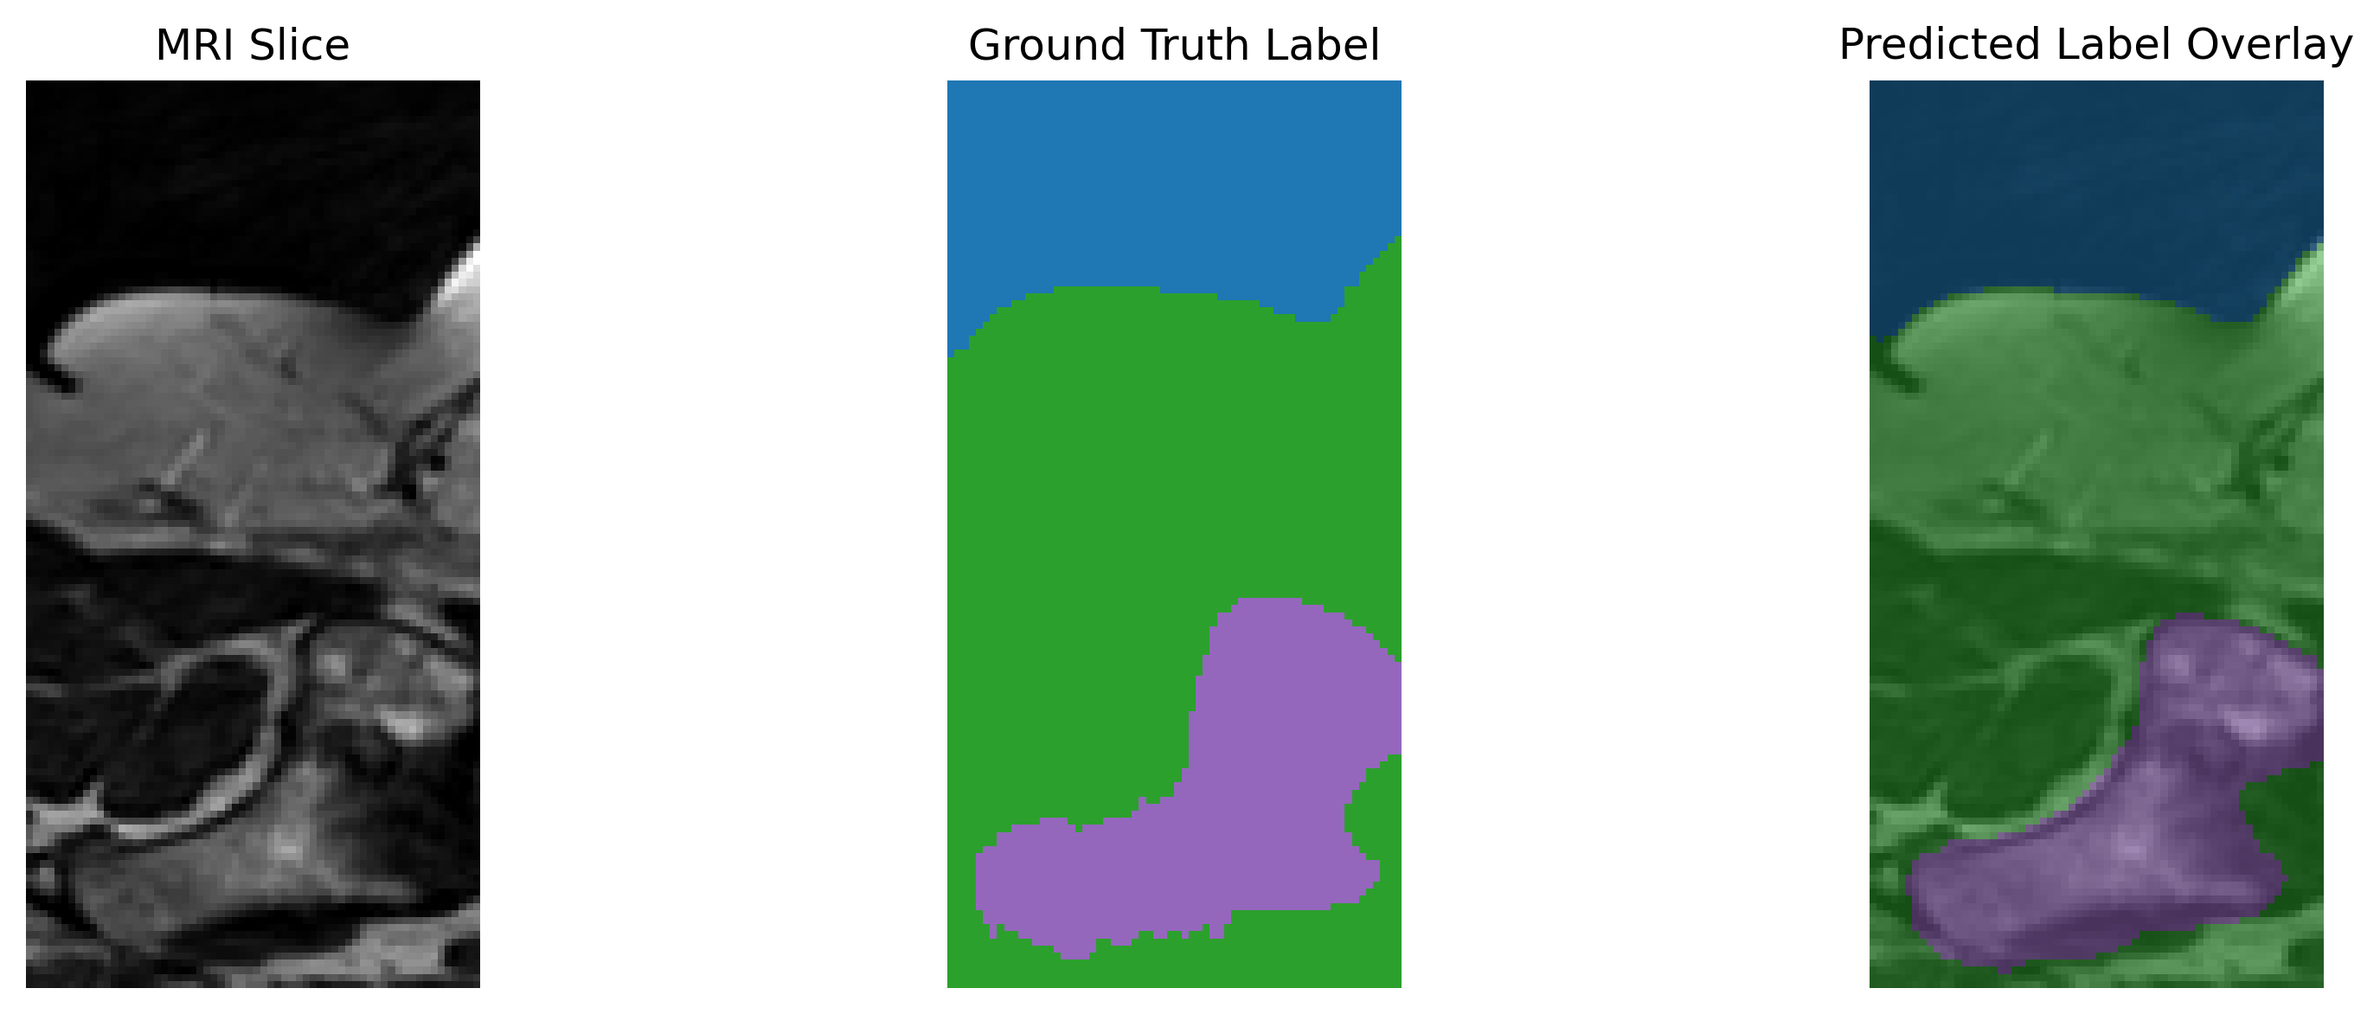
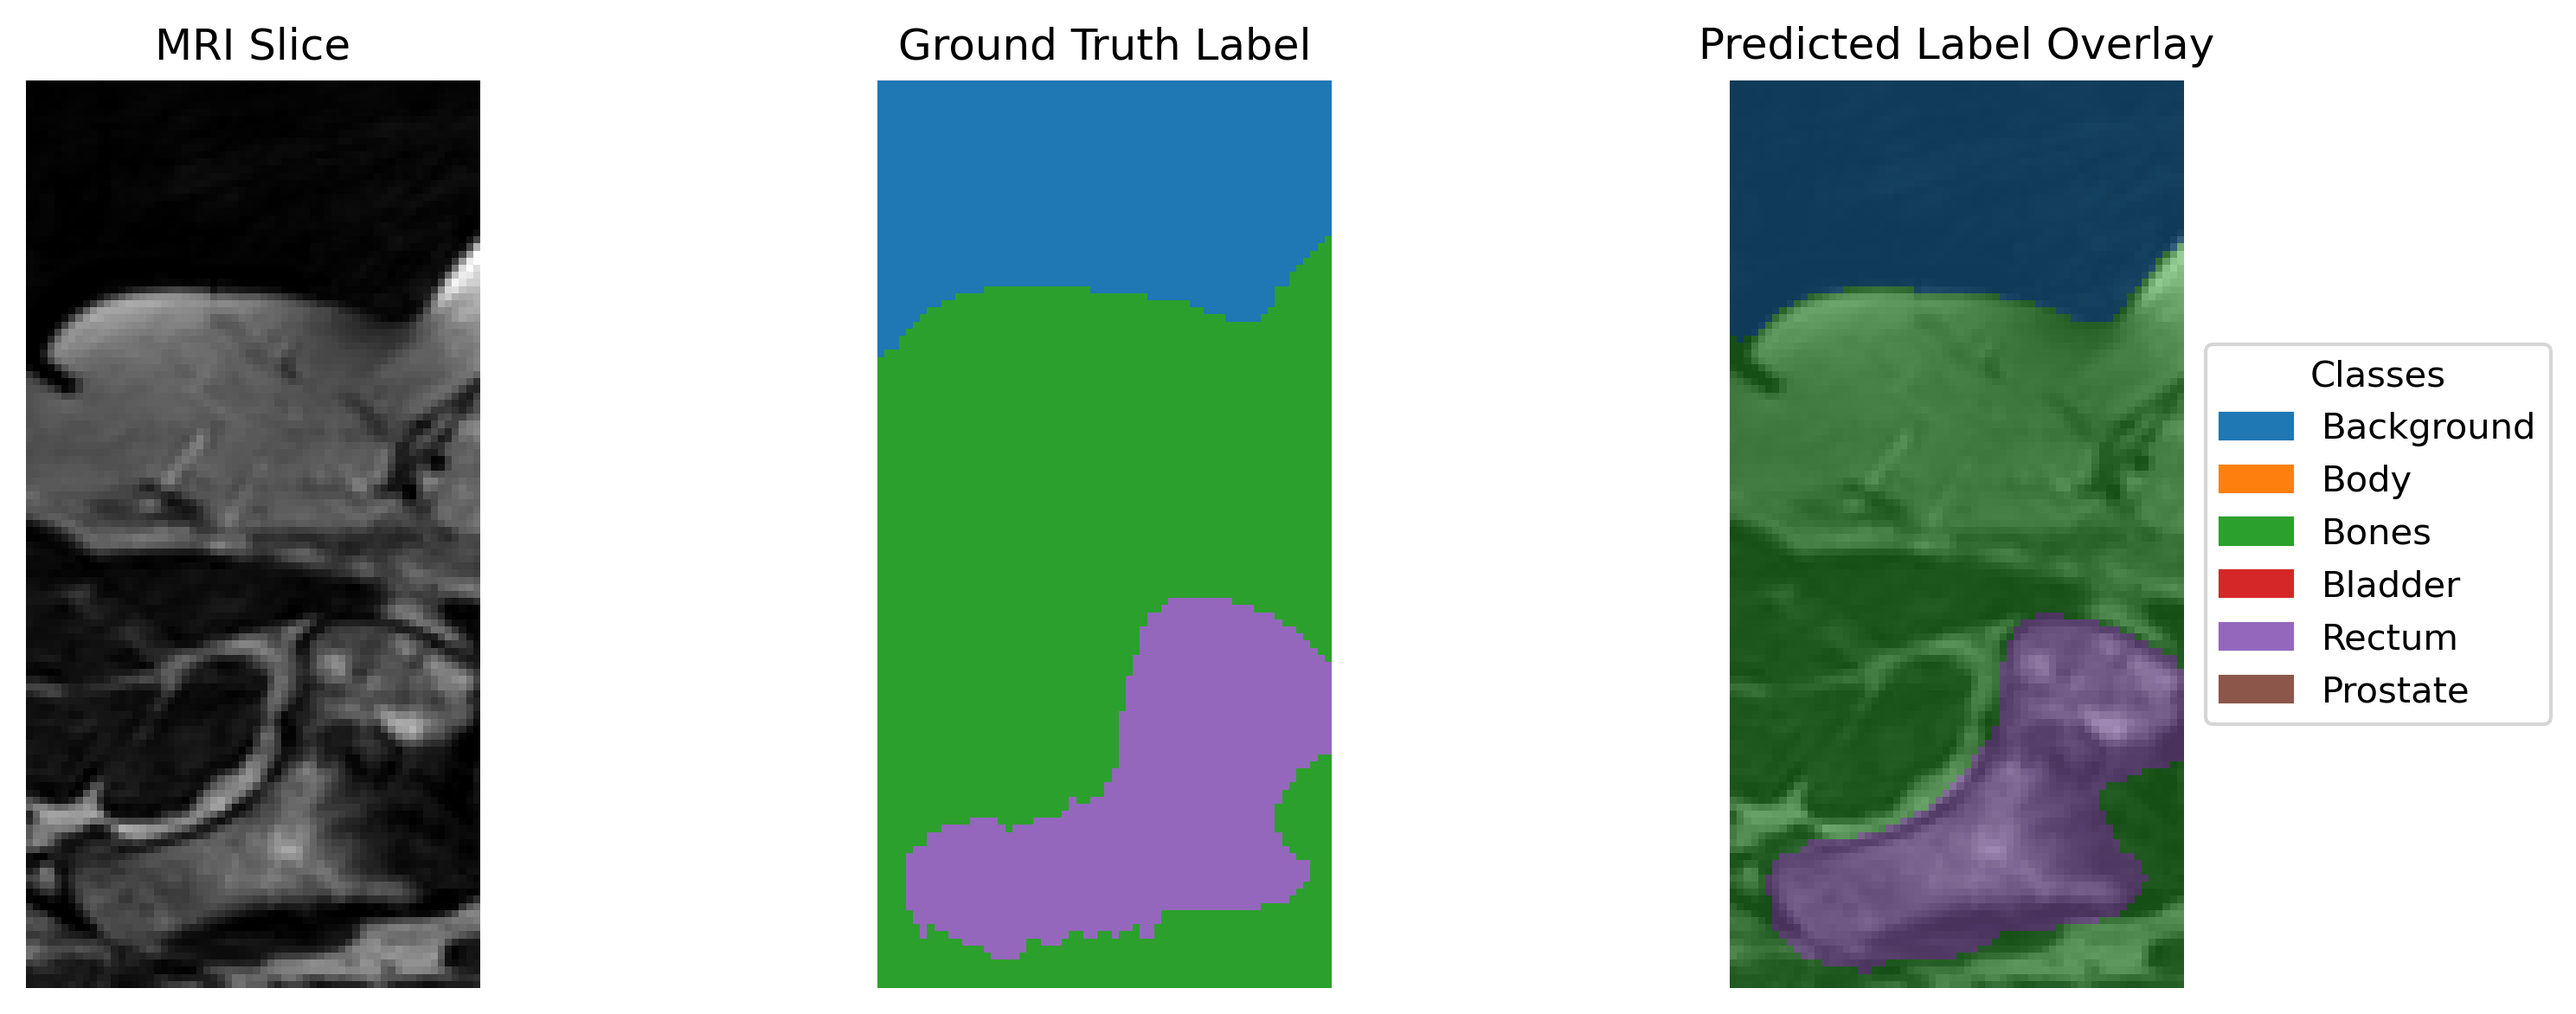
modified:   recognition/prostate_UNet3D_Qilin_He_48018155/Figures/pred_vs_gt_overlay.png 	modified:   recognition/prostate_UNet3D_Qilin_He_48018155/README.md 	modified:   recognition/prostate_UNet3D_Qilin_He_48018155/predict.py

diff --git a/recognition/prostate_UNet3D_Qilin_He_48018155/predict.py b/recognition/prostate_UNet3D_Qilin_He_48018155/predict.py
@@ -7,6 +7,7 @@ import glob
 import torchio as tio
 import os
 import matplotlib.pyplot as plt
+import matplotlib.patches as mpatches
 import numpy as np
 
 def dice_per_class(pred, target, num_classes=6, eps=1e-6):
@@ -128,8 +129,6 @@ plt.show()
 """
 
 # --- Plot for Overlay Prediction vs Ground Truth ---
-"""
-# Choose one test example
 example_idx = 0
 mri, label = test_set[example_idx]
 mri = mri.unsqueeze(0).to(device)  # [1, 1, D, H, W]
@@ -142,28 +141,49 @@ with torch.no_grad():
     gt_label = torch.argmax(label, dim=1).cpu().squeeze(0)  # [D, H, W]
     mri = mri.cpu().squeeze().numpy()
 
-# Pick a central slice (middle along depth axis)
+# Pick a central slice
 slice_idx = pred_label.shape[0] // 2
 
 plt.figure(figsize=(12, 4))
+
+# MRI Slice
 plt.subplot(1, 3, 1)
 plt.imshow(mri[slice_idx], cmap='gray')
 plt.title("MRI Slice")
 plt.axis('off')
 
+# Ground Truth Label
 plt.subplot(1, 3, 2)
 plt.imshow(gt_label[slice_idx], cmap='tab10', vmin=0, vmax=5)
 plt.title("Ground Truth Label")
 plt.axis('off')
 
+# Predicted Overlay
 plt.subplot(1, 3, 3)
 plt.imshow(mri[slice_idx], cmap='gray')
 plt.imshow(pred_label[slice_idx], alpha=0.5, cmap='tab10', vmin=0, vmax=5)
 plt.title("Predicted Label Overlay")
 plt.axis('off')
 
+# --- Add legend ---
+# Class names (adjust if your labels differ)
+class_labels = ["Background", "Body", "Bones", "Bladder", "Rectum", "Prostate"]
+
+# Use the same colormap to get the corresponding colors
+cmap = plt.get_cmap('tab10')
+colors = [cmap(i) for i in range(len(class_labels))]
+
+# Create legend handles
+patches = [mpatches.Patch(color=colors[i], label=class_labels[i]) for i in range(len(class_labels))]
+plt.legend(
+    handles=patches,
+    bbox_to_anchor=(1.05, 0.5),
+    loc='center left',
+    borderaxespad=0.,
+    title="Classes"
+)
+
 plt.tight_layout()
 os.makedirs("Figures", exist_ok=True)
 plt.savefig("Figures/pred_vs_gt_overlay.png", dpi=300, bbox_inches='tight')
 plt.show()
-"""

diff --git a/recognition/prostate_UNet3D_Qilin_He_48018155/README.md b/recognition/prostate_UNet3D_Qilin_He_48018155/README.md
@@ -117,23 +117,33 @@ The Adaptive Momentum Estimation (Adam) optimiser is used for the 3D U-Net model
   <img src="Figures/train_dice_coeff_per_class.png" width="700"/>
   <br><em>Figure 3: Per Class Dice Coefficient During Training</em>
 </p>
-The results in Figure 3 are obtained by calculating the DSC (1 - DSC loss per class) for each label, between the training and validation sets. The DSC for all labels show rapid increases around epoch 15, which shows the effect of using the Adam optimser. Later on, the DSCs reach the plateau, suggesting the model has converged and reached the optimal performance. The 3D U-Net model does a good job with segmenting the voxels against the validation set with accuracies above 0.8 for all labels.
+The results in Figure 3 are obtained by calculating the DSC (1 - DSC loss per class) for each label, between the training and validation sets. The DSC for all labels show rapid increases around epoch 15, which shows the effect of using the Adam optimser. Later on, the DSCs reach the plateau, suggesting the model has converged and reached the optimal performance. The 3D U-Net model does a good job with segmenting the voxels against the unseen validation set with accuracies above 0.8 for all labels.
 
 ## Test Results
 [predict.py](predict.py)  
-The best model was trained in epoch 46 with a validation loss of 0.068. It is saved as `checkpoints/unet3d_best.pth`. It can be loaded using:
+The best model was trained in epoch 46 with a mean validation loss of 0.068 across all labels. It is saved as `checkpoints/unet3d_best.pth`. It can be loaded using:
 ```
 checkpoint = torch.load(checkpoint_path, map_location=device)
 model.load_state_dict(checkpoint["model_state_dict"]) # Load the parameters
 ```
 
+<p align="center">
+  <img src="Figures/dice_per_class_with_std.png" width="700"/>
+  <br><em>Figure 5: Example of Prediction</em>
+</p>
 
+Below shows an example of ground-truth label vs model predicted label on a single MRI:
+<p align="center">
+  <img src="Figures/pred_vs_gt_overlay.png" width="700"/>
+  <br><em>Figure 6: Example of Prediction</em>
+</p>
+The predicted regions largely overlap with the ground truth, which supports the 
+visible difference
 
 ## Appendix/Reference
-Çiçek, Ö., Abdulkadir, A., Lienkamp, S.S., Brox, T., Ronneberger, O. (2016). 3D U-Net: Learning Dense Volumetric Segmentation from Sparse Annotation. In: Ourselin, S., Joskowicz, L., Sabuncu, M., Unal, G., Wells, W. (eds) Medical Image Computing and Computer-Assisted Intervention – MICCAI 2016. MICCAI 2016. Lecture Notes in Computer Science(), vol 9901. Springer, Cham. https://doi.org/10.1007/978-3-319-46723-8_49
+1. Çiçek, Ö., Abdulkadir, A., Lienkamp, S.S., Brox, T., Ronneberger, O. (2016). 3D U-Net: Learning Dense Volumetric Segmentation from Sparse Annotation. In: Ourselin, S., Joskowicz, L., Sabuncu, M., Unal, G., Wells, W. (eds) Medical Image Computing and Computer-Assisted Intervention – MICCAI 2016. MICCAI 2016. Lecture Notes in Computer Science(), vol 9901. Springer, Cham. https://doi.org/10.1007/978-3-319-46723-8_49
+2. Dowling, J., Greer, P. (2021). Labelled weekly MR images of the male pelvis. v2. - CSIRO. Data Collection. https://doi.org/10.25919/45t8-p065
+3. Geeksforgeeks. (2025). What is Adam Optimizer? - GeeksforGeeks. GeeksforGeeks. https://www.geeksforgeeks.org/deep-learning/adam-optimizer/
+4. Harisha, L. (2023). Dice Coefficient! What is it? Medium. https://lathashreeh.medium.com/dice-coefficient-what-is-it-ff090ec97bda
 
-Dowling, J., Greer, P. (2021). Labelled weekly MR images of the male pelvis. v2. - CSIRO. Data Collection. https://doi.org/10.25919/45t8-p065
-
-Geeksforgeeks. (2025). What is Adam Optimizer? - GeeksforGeeks. GeeksforGeeks. https://www.geeksforgeeks.org/deep-learning/adam-optimizer/
-
-Harisha, L. (2023). Dice Coefficient! What is it? Medium. https://lathashreeh.medium.com/dice-coefficient-what-is-it-ff090ec97bda
+## Dependencies
